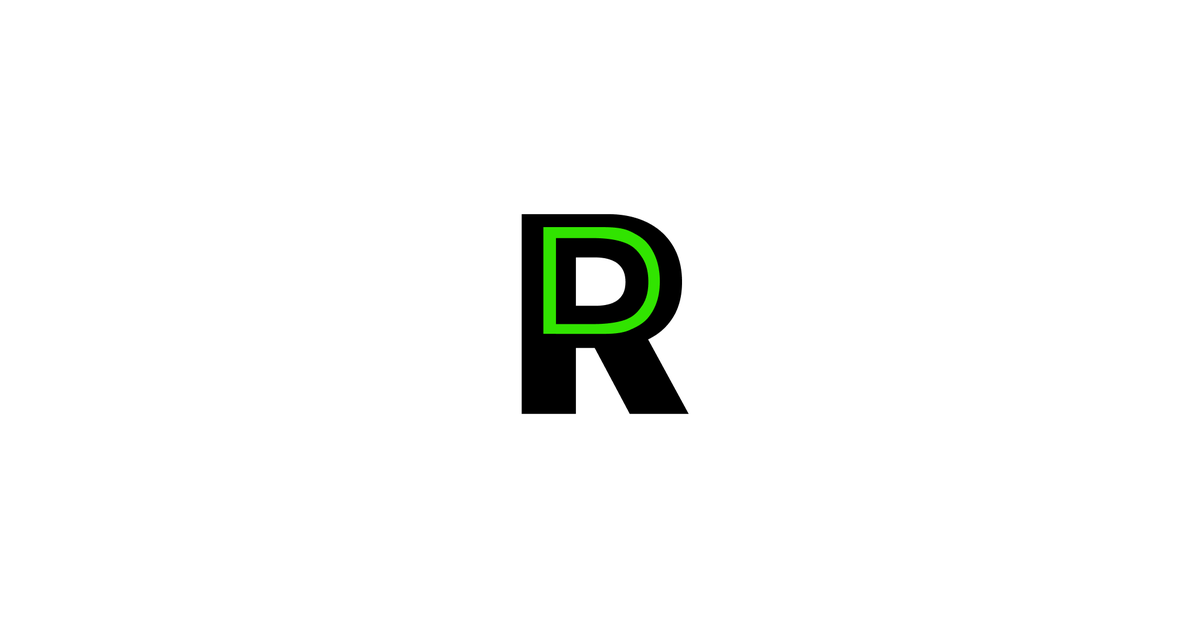
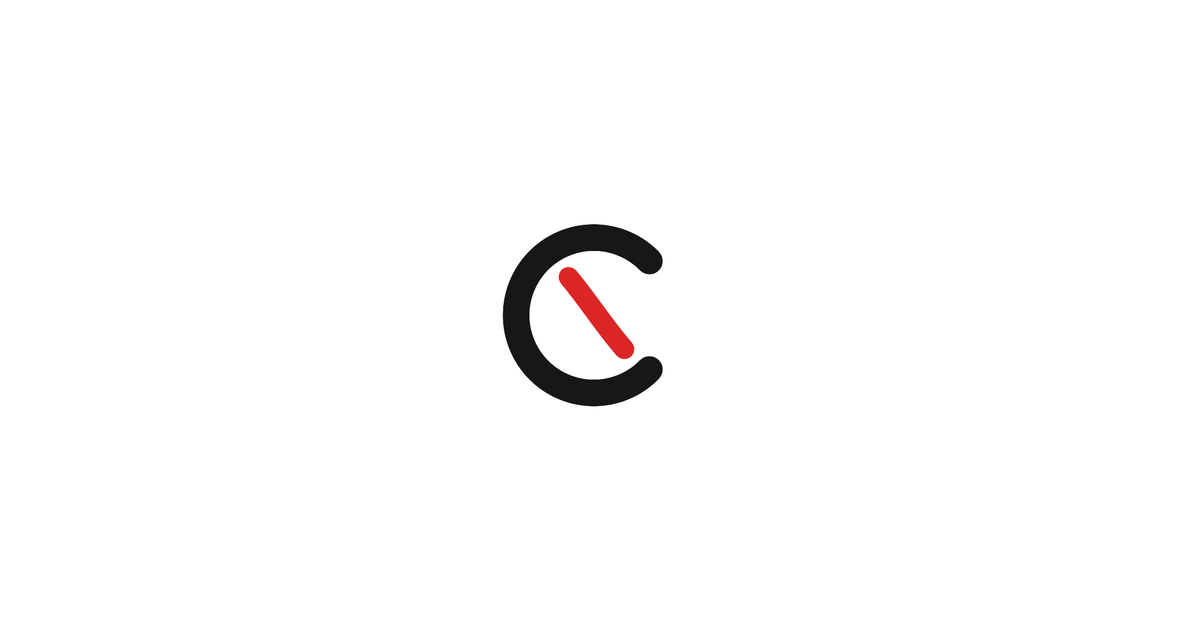
Strip AI-looking palette leftovers and rewrite PC rail in spoken Korean
Neutralize green-tinted glass, remap lavender/legacy orange to brand reds,
refresh OG share images, and replace slogan-style marketing copy with
colloquial Korean on the desktop rail and nearby surfaces.

Changed region(s): [[0.4008, 0.3317, 0.5858, 0.6635]]

diff --git a/src/components/MobileFrame.tsx b/src/components/MobileFrame.tsx
@@ -86,9 +86,8 @@ export default function MobileFrame({
 }
 
 /**
- * Desktop-only marketing rail. Hidden below lg so mobile is untouched.
- * Mental model: 코스 turns the path you walked into a course record, and a person's
- * profile into a "bookshelf" of their routes you can subscribe to.
+ * Desktop-only brand rail. Hidden below lg so mobile is untouched.
+ * Spoken Korean — not slogan / pillar marketing speak.
  */
 function BrandRail() {
   return (
@@ -106,23 +105,23 @@ function BrandRail() {
       </div>
 
       <h1 className="mt-9 break-keep text-[2.6rem] font-black leading-[1.15] tracking-[-0.01em] text-ink">
-        좋은 길을
+        갔다 온 길,
         <br />
-        따라갈 수 있게
+        그대로 남겨 봐요
       </h1>
       <p className="mt-5 max-w-[34ch] break-keep text-[15px] leading-relaxed text-ink-soft">
-        스팟 · 이동 · 시간 · 팁까지, 다녀온 동선을 지도 위 하나의 코스로 남기세요. 마음에 든
-        코스를 따라가고, 다녀온 후기가 다음 사람을 돕습니다.
+        스팟이랑 이동, 시간, 팁까지 — 다녀온 걸 지도에 코스로 남겨 두세요. 맘에 들면 따라가
+        보고, 다녀온 얘기가 다음 사람한테도 도움이 돼요.
       </p>
 
       <ul className="mt-9 space-y-4">
-        <Pillar title="코스 발견" desc="지역·누구와·난이도로 따라갈 동선을 고르세요" />
-        <Pillar title="따라가기" desc="장소와 이동을 내 초안으로 가져와 다듬어요" />
-        <Pillar title="다녀온 영향" desc="후기와 팔로우가 다음 코스를 열어요" />
+        <Pillar title="둘러보기" desc="지역·누구랑·난이도로 골라 봐요" />
+        <Pillar title="따라가기" desc="장소랑 이동을 내 걸로 가져온 뒤 손봐요" />
+        <Pillar title="다녀왔어요" desc="후기 남기면 다음 코스로 이어져요" />
       </ul>
 
       <p className="mt-11 inline-flex items-center gap-2 text-[13px] font-medium text-ink-faint">
-        오른쪽에서 바로 둘러보세요
+        오른쪽에 앱 있어요
         <svg width="16" height="16" viewBox="0 0 24 24" fill="none" aria-hidden>
           <path
             d="M5 12h14M13 6l6 6-6 6"

diff --git a/src/app/globals.css b/src/app/globals.css
@@ -8,10 +8,10 @@
 @custom-variant dark (&:where(.dark, .dark *));
 
 /* ──────────────────────────────────────────────────────────────
-   코스 design tokens — "Fresh / Light / Trust / Followable"
-   Red point-color brand (course-sns). Legacy semantic names (--paper,
-   --ink, --sunset, --primary-green-* …) are kept so components re-skin
-   without renames; VALUES are the red + neutral system (no green tint).
+   코스 design tokens — red point + neutral surfaces.
+   Legacy semantic names (--paper, --ink, --sunset, --primary-green-* …)
+   are kept so components re-skin without renames; VALUES are red + neutral
+   (no green tint, no lavender/purple brand accents).
    ────────────────────────────────────────────────────────────── */
 :root {
   /* === Primary accent scale ===
@@ -34,12 +34,12 @@
   --brand-primary-soft: rgba(239, 68, 68, 0.12);
   --brand-primary-soft-2: rgba(239, 68, 68, 0.18);
 
-  /* === Secondary accents (mint → soft brand coral; no green) === */
+  /* === Secondary accents (no purple/lavender brand tint) === */
   --accent-mint: #fca5a5;
   --accent-sky: #38bdf8;
   --accent-sunshine: #facc15;
   --accent-coral: #fb7185;
-  --accent-lavender: #a78bfa;
+  --accent-lavender: #fda4af; /* legacy name → soft rose, not purple */
 
   /* === Surfaces (neutral gray — no green-gray) === */
   --stage: #f0f0f0; /* desktop backdrop behind the mobile frame */
@@ -106,9 +106,8 @@
   /* === Shadow === */
   --shadow-sm: 0 1px 2px rgba(23, 23, 23, 0.05), 0 4px 12px rgba(23, 23, 23, 0.04);
   --shadow-md: 0 8px 24px rgba(23, 23, 23, 0.08);
-  --shadow-brand: 0 8px 20px rgba(220, 38, 38, 0.18);
-  --shadow-card: 0 1px 2px rgba(17, 24, 28, 0.04), 0 2px 8px -2px rgba(17, 24, 28, 0.05),
-    0 10px 26px -8px rgba(17, 24, 28, 0.1);
+  --shadow-brand: 0 6px 16px rgba(220, 38, 38, 0.22);
+  --shadow-card: 0 1px 3px rgba(23, 23, 23, 0.06), 0 8px 20px -6px rgba(23, 23, 23, 0.08);
 }
 
 /* ── Dark mode (toggled by `.dark` on <html>) ──

diff --git a/src/components/BottomNav.tsx b/src/components/BottomNav.tsx
@@ -332,7 +332,7 @@ export default function BottomNav() {
       <ul
         ref={barRef}
         aria-hidden={navHidden || mapMode}
-        className={`relative flex h-[60px] flex-1 items-center overflow-hidden rounded-full bg-gradient-to-b from-[rgba(244,246,245,0.5)] to-[rgba(230,234,232,0.42)] shadow-[0_10px_30px_rgba(0,0,0,0.22),0_0_0_1px_rgba(0,0,0,0.06),inset_0_1px_0_rgba(255,255,255,0.9)] backdrop-blur-lg backdrop-saturate-150 transition-transform duration-300 ease-[cubic-bezier(0.22,1,0.36,1)] will-change-transform dark:from-[rgba(34,45,40,0.62)] dark:to-[rgba(16,23,20,0.55)] dark:shadow-[0_10px_30px_rgba(0,0,0,0.55),0_0_0_1px_rgba(255,255,255,0.06),inset_0_1px_0_rgba(255,255,255,0.12)] ${
+        className={`relative flex h-[60px] flex-1 items-center overflow-hidden rounded-full bg-gradient-to-b from-[rgba(255,255,255,0.55)] to-[rgba(245,245,245,0.42)] shadow-[0_8px_24px_rgba(0,0,0,0.18),0_0_0_1px_rgba(0,0,0,0.06),inset_0_1px_0_rgba(255,255,255,0.9)] backdrop-blur-lg backdrop-saturate-150 transition-transform duration-300 ease-[cubic-bezier(0.22,1,0.36,1)] will-change-transform dark:from-[rgba(38,38,38,0.62)] dark:to-[rgba(18,18,18,0.55)] dark:shadow-[0_8px_24px_rgba(0,0,0,0.5),0_0_0_1px_rgba(255,255,255,0.06),inset_0_1px_0_rgba(255,255,255,0.12)] ${
           navHidden ? "translate-y-[calc(100%+max(env(safe-area-inset-bottom),16px)+28px)]" : "translate-y-0"
         } ${navHidden || mapMode ? "pointer-events-none" : "pointer-events-auto"}`}
       >
@@ -412,7 +412,7 @@ export default function BottomNav() {
         className={`jelly pointer-events-auto flex h-[60px] w-[60px] shrink-0 items-center justify-center rounded-full backdrop-blur-xl backdrop-saturate-150 transition-[background-color,box-shadow,color,transform] duration-300 ease-[cubic-bezier(0.22,1,0.36,1)] ring-1 ${
           navHidden
             ? "bg-white/34 text-ink shadow-[0_10px_24px_rgba(15,23,42,0.18),0_0_0_1px_rgba(255,255,255,0.52),inset_0_1px_0_rgba(255,255,255,0.78)] ring-white/60 dark:bg-black/34 dark:text-white dark:ring-white/15"
-            : "bg-sunset text-white shadow-[var(--shadow-brand),0_0_0_1px_rgba(0,0,0,0.06),inset_0_1px_0_rgba(255,255,255,0.5)] ring-white/50"
+            : "bg-sunset text-white shadow-[var(--shadow-brand)] ring-black/5"
         }`}
       >
         <svg width="28" height="28" viewBox="0 0 24 24" fill="none">
@@ -423,7 +423,7 @@ export default function BottomNav() {
       <ActionBottomSheet
         open={createOpen}
         title="어떤 코스를 만들까요?"
-        description="남이 따라갈 수 있게, 동선과 스팟을 먼저 잡아 보세요."
+        description="남이 따라갈 수 있게, 동선이랑 스팟부터 잡아 봐요."
         primaryLabel={createIntent === "plan" ? "계획 시작하기" : "코스 만들기"}
         secondaryLabel="취소"
         onClose={() => setCreateOpen(false)}

diff --git a/src/components/RouteForm.tsx b/src/components/RouteForm.tsx
@@ -1819,7 +1819,7 @@ function PlanRoutePlanner({
       }
       const selected = selectedLegIndex === index;
       const dimmed = hasFocusedLeg && !selected;
-      const color = selected ? "#f07a4a" : "#64748b";
+      const color = selected ? "#dc2626" : "#64748b";
       const line = new naver.maps.Polyline({
         map,
         path: [
@@ -2677,7 +2677,7 @@ function plannerMarkerHtml(index: number, focused: boolean, dimmed: boolean, col
   const size = focused ? 36 : 30;
   const font = focused ? 15 : 13;
   const opacity = dimmed ? 0.32 : 1;
-  const bg = color ?? (focused ? "#f07a4a" : "#dc2626");
+  const bg = color ?? (focused ? "#ef4444" : "#dc2626");
   return `<div class="rd-mk" style="display:flex;align-items:center;justify-content:center;width:${size}px;height:${size}px;border-radius:999px;background:${bg};color:#fff;font-size:${font}px;font-weight:800;box-shadow:0 2px 10px rgba(0,0,0,.32);opacity:${opacity};border:2px solid rgba(255,255,255,.92)">${index}</div>`;
 }
 
@@ -2685,7 +2685,7 @@ const TIME_BANDS = [
   { label: "오전", color: "#2563eb" },
   { label: "점심", color: "#f59e0b" },
   { label: "오후", color: "#dc2626" },
-  { label: "저녁", color: "#7c3aed" },
+  { label: "저녁", color: "#ea580c" },
 ] as const;
 
 function timeBandForIndex(index: number, total: number) {

diff --git a/src/app/login/page.tsx b/src/app/login/page.tsx
@@ -42,9 +42,9 @@ function LoginInner() {
         <div className="mb-8 text-center">
           <h1 className="text-3xl font-black text-sunset">코스</h1>
           <p className="mt-2 text-[14px] leading-relaxed text-ink-soft">
-            다녀온 길과 스팟을
+            갔다 온 길과 스팟,
             <br />
-            코스로 기록하고 공유하세요
+            코스로 남겨 나눠 봐요
           </p>
         </div>
 

diff --git a/src/app/u/[handle]/page.tsx b/src/app/u/[handle]/page.tsx
@@ -72,8 +72,8 @@ export default async function UserProfilePage({
         </section>
 
         <section className="px-4 pt-6">
-          <h3 className="mb-1 text-[14px] font-bold text-ink">코스 책장</h3>
-          <p className="mb-3 text-[12px] text-ink-faint">따라갈 수 있는 공개 코스 {profile.routes.length}</p>
+          <h3 className="mb-1 text-[14px] font-bold text-ink">공개 코스</h3>
+          <p className="mb-3 text-[12px] text-ink-faint">따라갈 수 있는 코스 {profile.routes.length}</p>
           {profile.routes.length === 0 ? (
             <div className="py-12 text-center text-[13px] text-ink-faint">
               아직 공개한 코스가 없어요.

diff --git a/src/components/DiaryDrawerContent.tsx b/src/components/DiaryDrawerContent.tsx
@@ -31,9 +31,9 @@ export default function DiaryDrawerContent({
       <section className="px-4 pb-5 pt-1">
         <p className="text-[13px] font-medium text-ink-soft">{displayName}님의 코스</p>
         <h2 className="mt-0.5 text-[22px] font-black leading-tight text-ink">
-          따라갈 코스를
+          내 코스,
           <br />
-          만들고 다듬어요
+          만들고 손봐요
         </h2>
       </section>
       <HomeRoutesTabs routes={routes} initialTab={initialTab} urlFor={urlFor} />

diff --git a/src/app/(tabs)/profile/ProfileActions.tsx b/src/app/(tabs)/profile/ProfileActions.tsx
@@ -85,7 +85,7 @@ export default function ProfileActions() {
     const url = `${window.location.origin}/`;
     const data = {
       title: "코스",
-      text: "좋은 길을 따라가고, 다녀온 팁이 다음 사람을 돕는 코스",
+      text: "맘에 드는 코스 따라가 보고, 다녀온 팁도 남겨 보세요",
       url,
     };
 

diff --git a/src/app/layout.tsx b/src/app/layout.tsx
@@ -20,7 +20,7 @@ const notoKr = Noto_Sans_KR({
 });
 
 const SITE_DESCRIPTION =
-  "다녀온 길과 스팟을 코스로 기록하고 공유하세요. 사진, 이동, 감정과 테마까지 — 나만의 코스.";
+  "갔다 온 길과 스팟을 코스로 남겨 나눠 봐요. 사진, 이동, 기분과 테마까지.";
 
 export const metadata: Metadata = {
   // absolute base for OG/Twitter image URLs (set NEXT_PUBLIC_SITE_URL in prod)

diff --git a/src/app/manifest.ts b/src/app/manifest.ts
@@ -5,7 +5,7 @@ export default function manifest(): MetadataRoute.Manifest {
     name: "코스 — 코스 기록·공유",
     short_name: "COS",
     description:
-      "다녀온 길과 스팟을 코스로 기록하고 공유하세요. 사진, 이동, 감정과 테마까지 — 나만의 코스.",
+      "갔다 온 길과 스팟을 코스로 남겨 나눠 봐요. 사진, 이동, 기분과 테마까지.",
     lang: "ko",
     start_url: "/",
     display: "standalone",

diff --git a/src/components/ProfileDrawerBody.tsx b/src/components/ProfileDrawerBody.tsx
@@ -75,7 +75,7 @@ export default function ProfileDrawerBody({
         </ul>
 
         <p className="mt-6 text-center text-[12px] text-ink-faint">
-          코스 · 따라갈 수 있는 이동 코스
+          코스 · 갔다 온 길을 따라갈 수 있게
           <br />
           <span className="text-[11px]">{APP_VERSION}</span>
         </p>

diff --git a/src/components/RoutePlanThumbnail.tsx b/src/components/RoutePlanThumbnail.tsx
@@ -69,7 +69,7 @@ export default function RoutePlanThumbnail({
           <polyline
             points={plotted.map((p) => `${p.x},${p.y}`).join(" ")}
             fill="none"
-            stroke="#f07a4a"
+            stroke="#dc2626"
             strokeWidth={showBase ? "2.8" : "3.6"}
             strokeLinecap="round"
             strokeLinejoin="round"